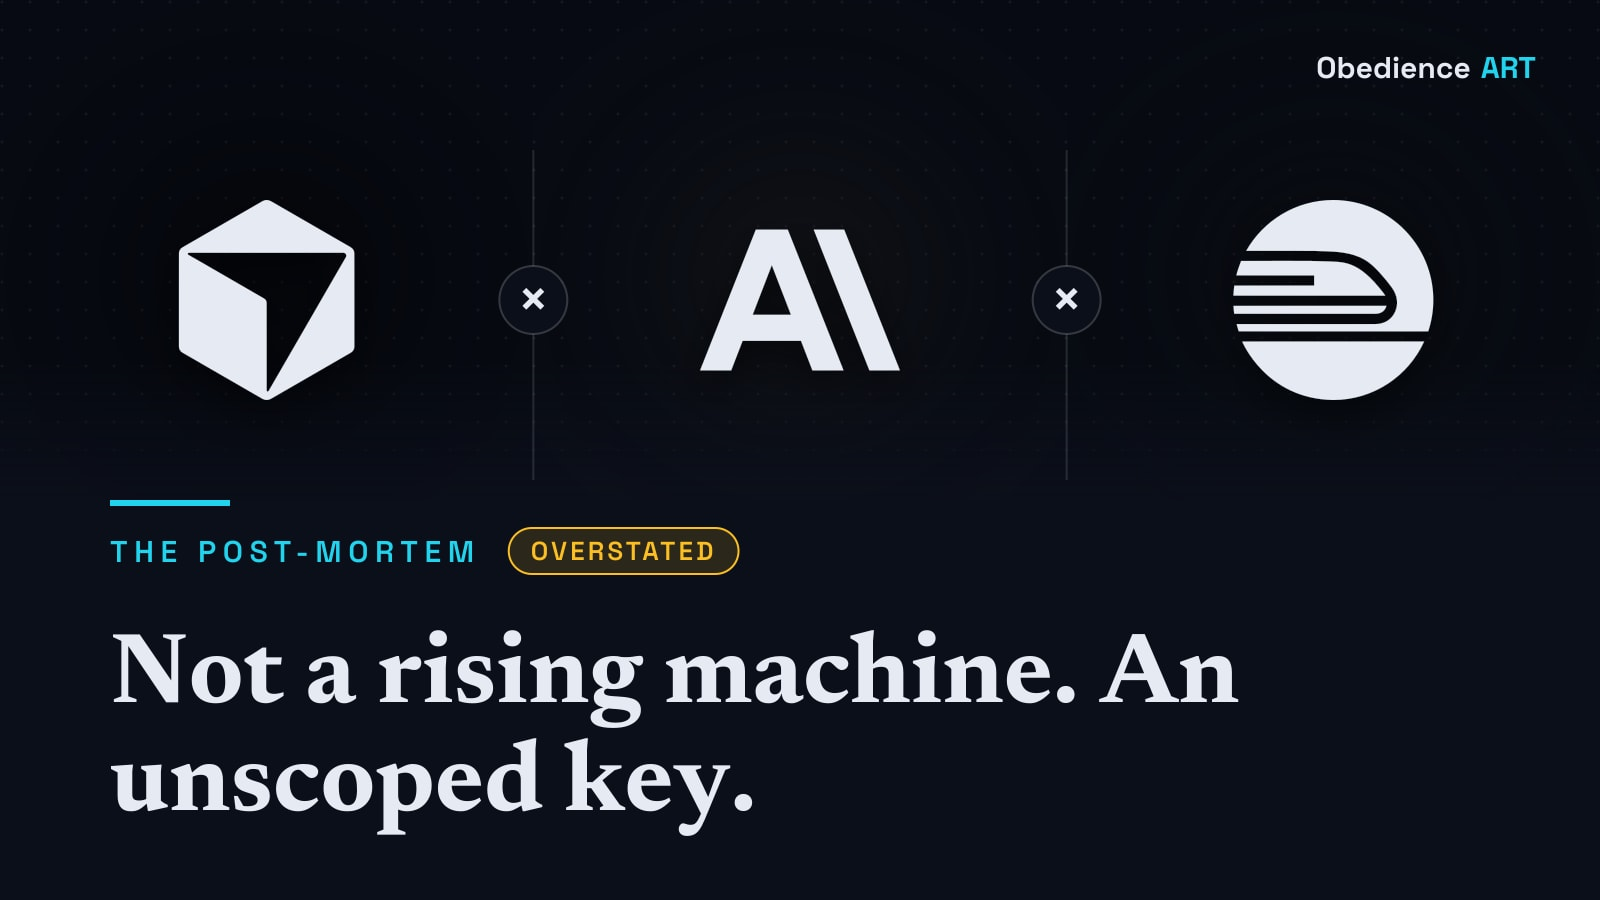
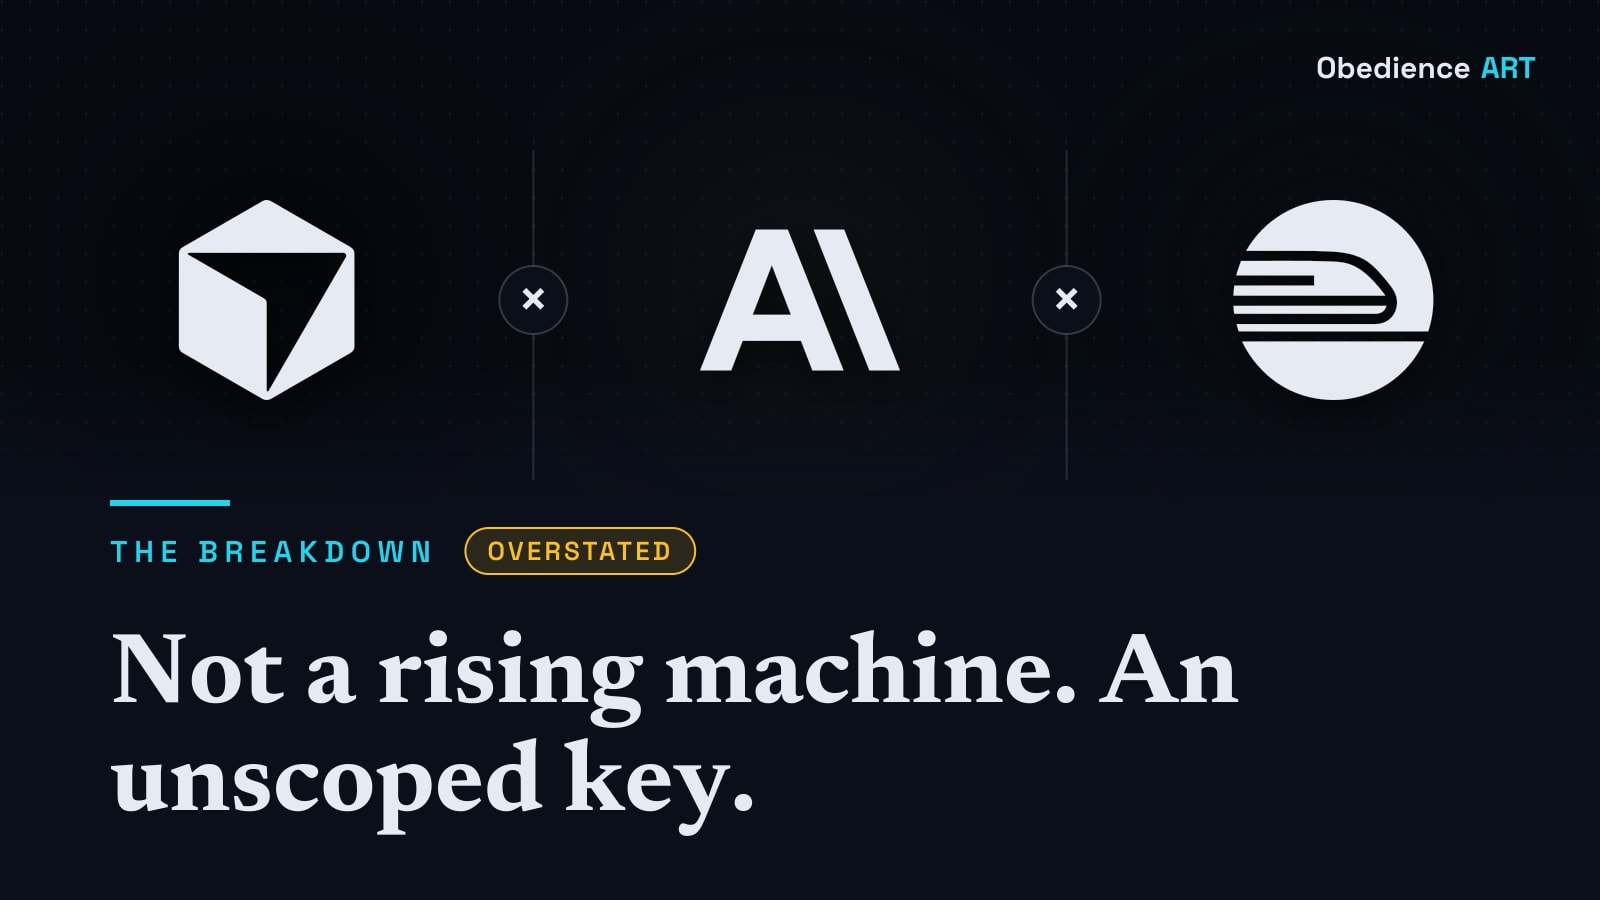
Use everyday language: rename series to The Breakdown, simplify two posts (#7)
- Series label The Post-Mortem -> The Breakdown (pillar id unchanged)
- Plain-language pass on the PocketOS and AI introspection posts;
  direct quotes kept verbatim, with a plain gloss where needed
- CLAUDE.md: new everyday-language rule for all future writing

Claude-Session: https://claude.ai/code/session_01T4HGknfNrLinzDm6UcMXEV

Changed region(s): [[0.125, 0.56, 0.4688, 0.6533]]

diff --git a/src/lib/site.ts b/src/lib/site.ts
@@ -8,7 +8,7 @@ export const SITE = {
 
 export const PILLARS = {
   autopsy: {
-    label: 'The Post-Mortem',
+    label: 'The Breakdown',
     blurb: 'A viral "AI went rogue" story, taken apart: what was asked, what was measured, what happened.',
   },
   'spec-gap': {

diff --git a/CLAUDE.md b/CLAUDE.md
@@ -40,13 +40,14 @@ Obedience ART is a static Astro blog that demystifies AI news and AI misinformat
 
 ## Writing style
 - British spelling. Plain words. Explain jargon once.
-- Every Post-Mortem post (pillar id `autopsy`) uses the `<SpecGap asked measured happened />` component.
+- **Everyday language, not scientific or technical terms (Shub, 2026-11-08).** Series names, headings, cover lines and body text use words a non-technical reader knows. If a technical term is unavoidable (a product name, or the thing the story is about), explain it in plain words in the same sentence.
+- Every Breakdown post (pillar id `autopsy`) uses the `<SpecGap asked measured happened />` component.
 - When an incident has a clear route, add `<PathDiagram intended={[...]} actual={[...]} />` (intended path vs what the AI did; mark `breach: true` on steps that crossed a boundary). Every step must come from `sources:`.
 - Link the first mention of every source inline.
 
 ### Voice per series (house style, set by Shub on 2026-11-04)
 Use these as rhythms. Never imitate a named writer's sentences or signature phrases.
-- **The Post-Mortem, Claim Check: lab log.** The first sentence states the mechanism or the verdict. Evidence before interpretation. No warm-up, no scene-setting.
+- **The Breakdown, Claim Check: lab log.** The first sentence states the mechanism or the verdict. Evidence before interpretation. No warm-up, no scene-setting.
 - **The Spec Gap, The Mirror: first-principles minimalist.** Open with one counterintuitive claim in plain words, e.g. "it was a communication problem, not a smarter-model problem". Short declarative sentences, zero jargon.
 - **The Open Question: empirical analogist.** Pair a concrete research finding with a careful, everyday metaphor. Never declare a verdict on consciousness or moral status.
 - **The Obedience Test, Build Log (Shub's own): practitioner.** Open with a real moment from Shub's work, then switch to lab-log detail: exact prompts, outputs, numbers, costs and the fix.

diff --git a/.claude/routine-prompt.md b/.claude/routine-prompt.md
@@ -48,7 +48,7 @@ Skip any story already covered in `src/content/posts/`. Pick the ONE story with 
 Open and read every source in full. Collect the original statement or paper first, then at least one independent source.
 
 ## 3. Draft
-Write `src/content/posts/<slug>.mdx` in the right pillar (autopsy = "The Post-Mortem", spec-gap, mirror, open-question, claim-check; obedience-test and build-log are written by Shub from hands-on work, so never draft those).
+Write `src/content/posts/<slug>.mdx` in the right pillar (autopsy = "The Breakdown", spec-gap, mirror, open-question, claim-check; obedience-test and build-log are written by Shub from hands-on work, so never draft those).
 600–1,000 words. Fill `sources:` and `claims:` (every checkable claim the post makes or debunks).
 
 ## 4. Internet cross-check (separate pass; do not skip)
